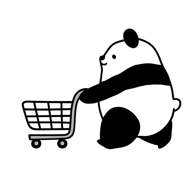
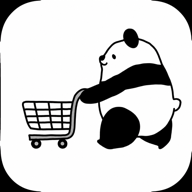
アイコンをicon2.pngに変更し、ヘッダーがステータスバーと重なる不具合を修正
iOSのstatus-bar-style(black-translucent)によりヘッダーとステータスバーが重なっていたため、
safe-area-inset-top分の余白をヘッダーに追加

diff --git a/index.html b/index.html
@@ -26,7 +26,7 @@ html,body{margin:0;padding:0;height:100%;background:var(--bg);color:var(--text);
   font-family:-apple-system,BlinkMacSystemFont,"Hiragino Sans","Hiragino Kaku Gothic ProN",sans-serif;}
 #app{display:flex;flex-direction:column;min-height:100dvh;}
 header.topbar{
-  padding:14px 16px 10px; background:var(--card); border-bottom:1px solid var(--border);
+  padding:calc(14px + env(safe-area-inset-top)) 16px 10px; background:var(--card); border-bottom:1px solid var(--border);
   position:sticky; top:0; z-index:5;
 }
 header.topbar h1{font-size:17px; margin:0; font-weight:700; text-align:center;}
